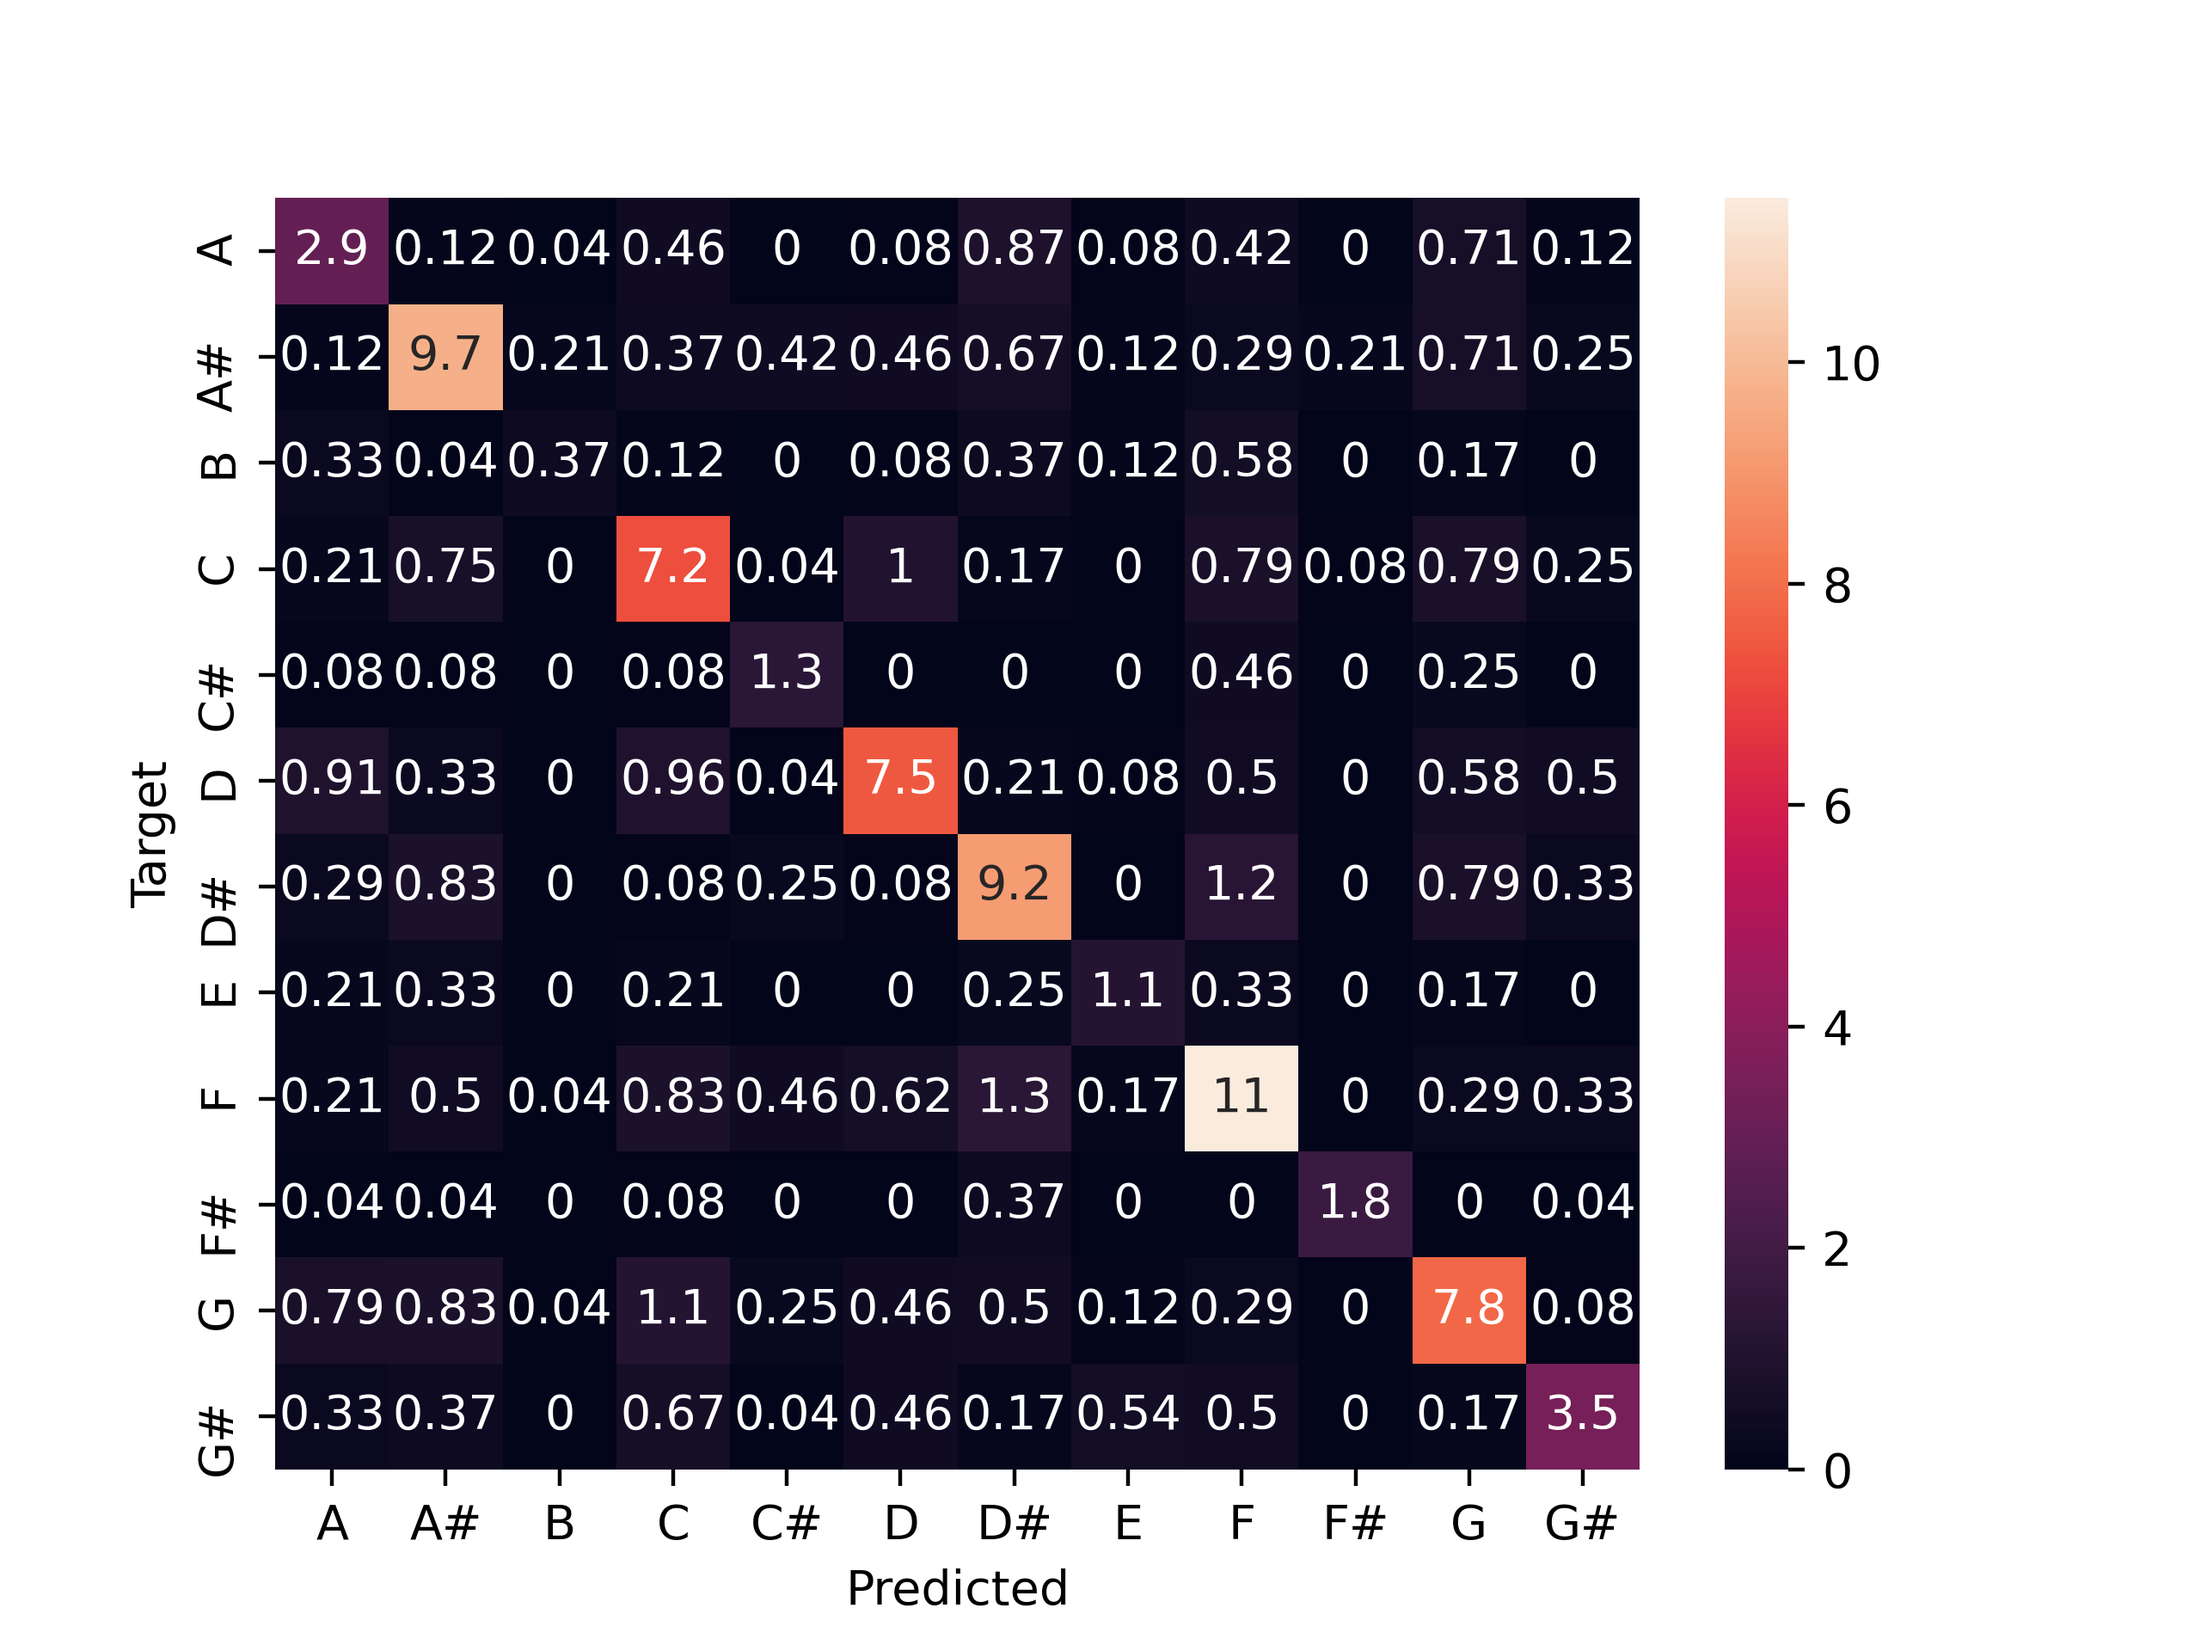
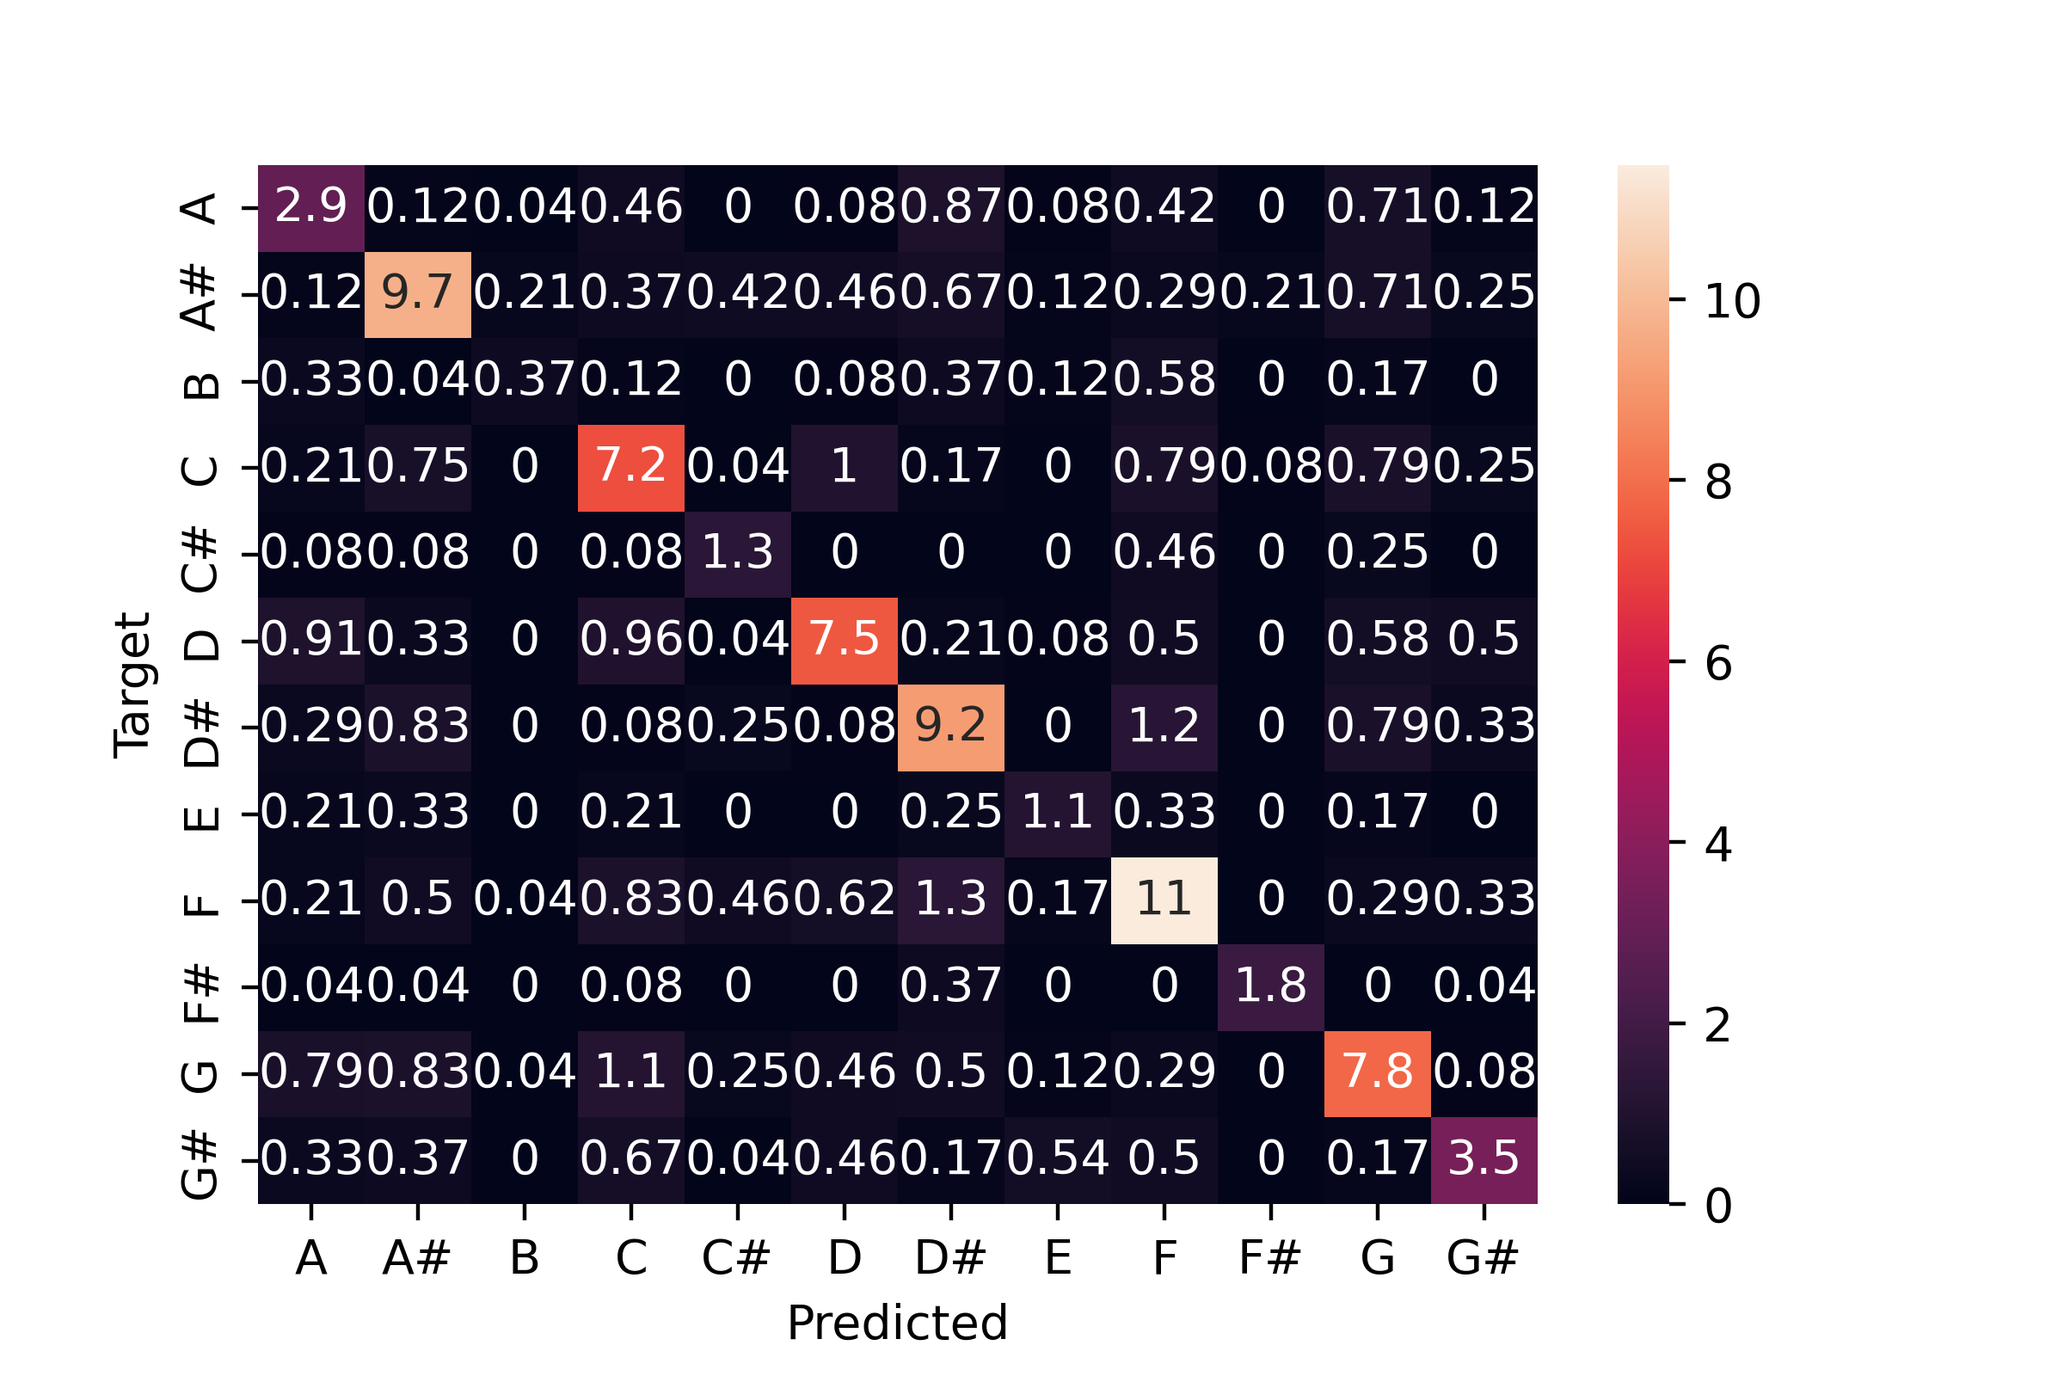
cross_matrix_all

diff --git a/qualitative_analysis.py b/qualitative_analysis.py
@@ -402,8 +402,14 @@ result_song = song_analysis(result_table_all, 197, model_name, model_name_mel)
 
 
 #%%
+create_save_matrix(result_table_all, 't_root', 'Pred_Root',  '_roots_crossmatrix.png', model_name, title=None, show=True)
+create_save_matrix(result_table_all, 't_root', 'Pred_Root_mel',  '_roots_crossmatrix.png', model_name_mel, title=None, show=True)
 
-# confusion_matrix_root = pd.crosstab(result_table['t_root'], result_table['p_root'], rownames=['Target'], colnames=['Predicted'], 
+create_save_matrix(result_table_all, 'triad_T', 'Pred_triad_form',  '_triad_form_crossmatrix.png', model_name, title=None, show=True)
+create_save_matrix(result_table_all, 'triad_T', 'Pred_triad_form_mel',  '_triad_form_crossmatrix.png', model_name_mel, title=None, show=True)
+
+create_save_matrix(result_table_all, 'added_note_T', 'Pred_added_note',  '_added_note_crossmatrix.png', model_name, title=None, show=True)
+create_save_matrix(result_table_all, 'added_note_T', 'Pred_added_note_mel',  '_added_note_crossmatrix.png', model_name_mel, title=None, show=True)# confusion_matrix_root = pd.crosstab(result_table['t_root'], result_table['p_root'], rownames=['Target'], colnames=['Predicted'], 
 #                                normalize='all').round(4)*100
   
 # confusion_matrix_triad = pd.crosstab(result_table['triad_T'], result_table['triad_P_corr'], rownames=['Target Triad Form'], colnames=['Predicted Triad Form'], 
